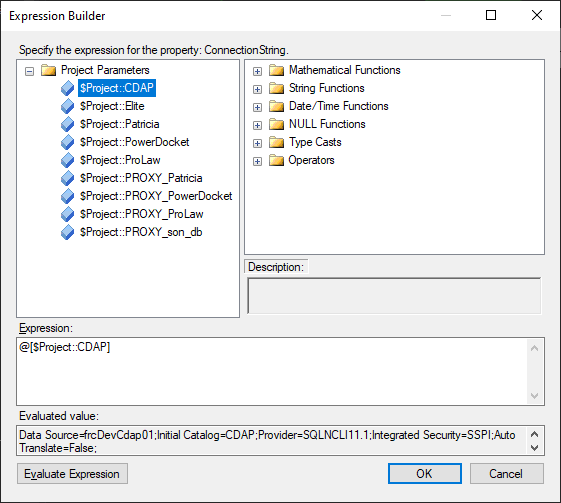
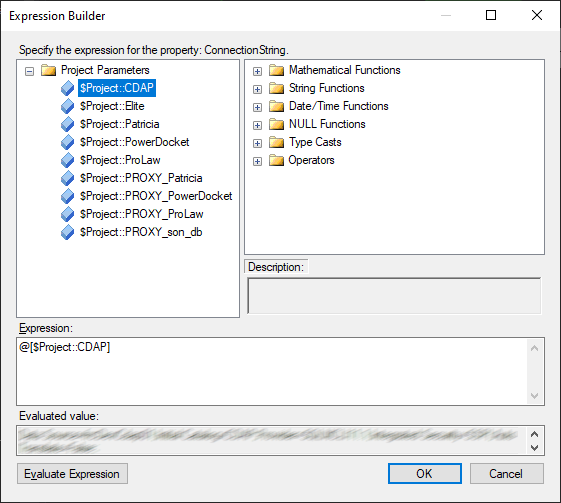
Add missing image

Changed region(s): [[0.0303, 0.835, 0.9091, 0.9245]]

diff --git a/ssis.md b/ssis.md
@@ -26,8 +26,8 @@ Generally all connection managers should be Project scoped. This aids in visibil
 Within any package you will see at the bottom the Connection Managers tab (below). Project scoped connections are noted in parentheses. Viewing the properties of a connection manager gains you access to the Expressions property. From there you can select the appropriate parameter for the connection.  
 ![Connection Managers](images/4.png)  
 ![Connection Manager Details](images/5.png)  
-![Property Expression Editor](images/6.png)   
- 
+![Property Expression Editor](images/6.png)  
+![Property Expression Builder](images/7.png)   
 Defining parameters and associating them with expressions will ensure these parameters can be accessed and used by the deployed Project on SQL Server.  
  
 ### SQL Server & Integration Services Catalog  
